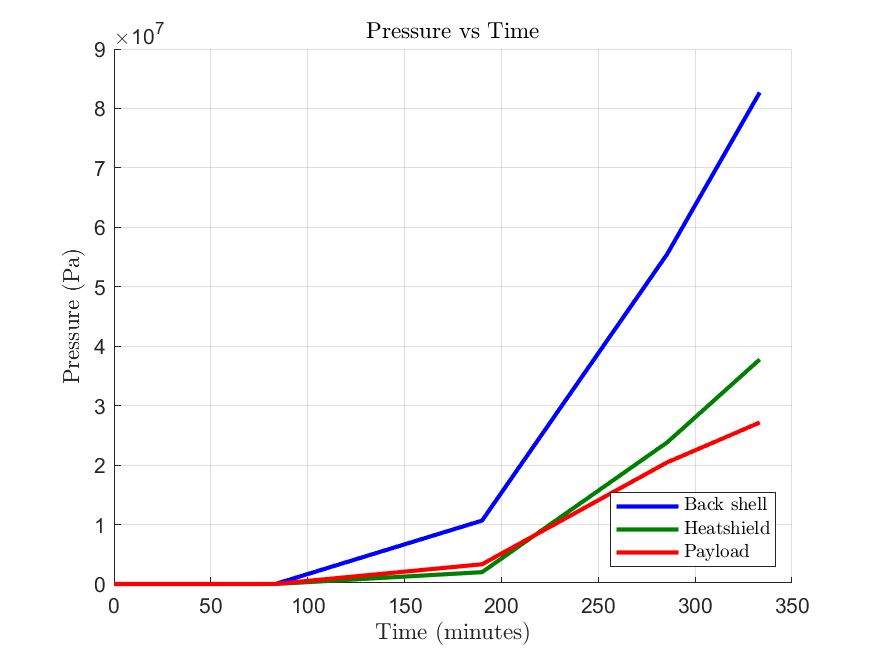
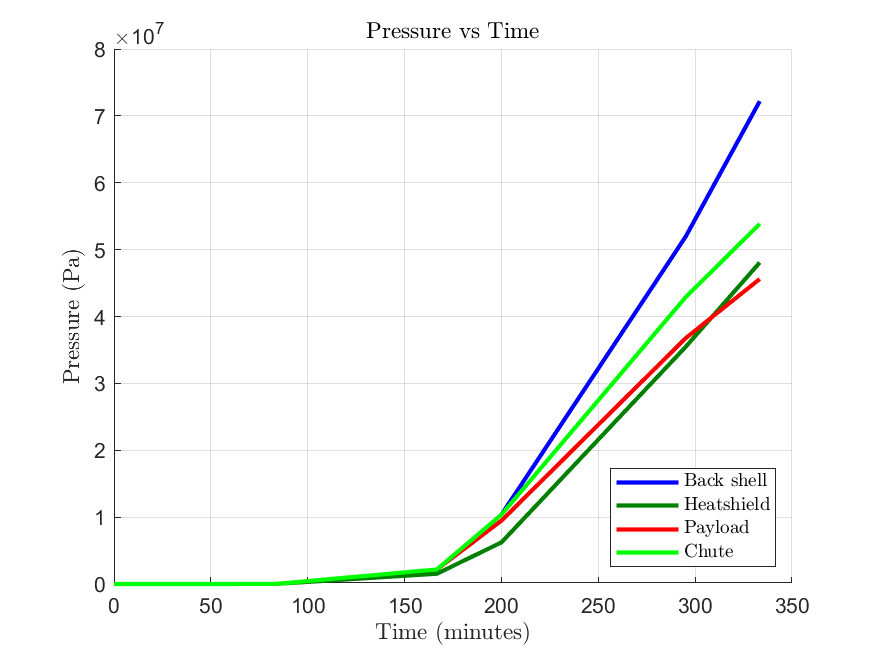
Plots fixed for chute

diff --git a/scripts/Balloon_Probe_EDL.m b/scripts/Balloon_Probe_EDL.m
@@ -114,10 +114,11 @@ hold on
 plot((dataTable.t * 100)/60,pressure_at_altitude(:,2),'LineWidth',2,'Color','blue') 
 plot((dataTable.t * 100)/60,pressure_at_altitude(:,3),'LineWidth',2,'Color',[0, 0.5, 0]) 
 plot((dataTable.t * 100)/60,pressure_at_altitude(:,4),'LineWidth',2,'Color','red') 
+plot((dataTable.t * 100)/60,pressure_at_altitude(:,5),'LineWidth',2,'Color','g') 
 title('Pressure vs Time','Interpreter','latex')
 xlabel('Time (minutes)','Interpreter','latex');
 ylabel('Pressure (Pa)','Interpreter','latex');
-legend({'Back shell', 'Heatshield', 'Payload'}, 'Location', 'southeast','Interpreter','latex');
+legend({'Back shell', 'Heatshield', 'Payload', 'Chute'}, 'Location', 'southeast','Interpreter','latex');
 grid on
 saveas(gcf, 'pressureVsAltitude.png');
 
@@ -127,6 +128,7 @@ hold on
 plot((dataTable.t * 100)/60,dataTable.h_parent/1000,'LineWidth',2,'Color','blue') 
 plot((dataTable.t * 100)/60,dataTable.h_child1/1000,'LineWidth',2,'Color',[0, 0.5, 0]) 
 plot((dataTable.t * 100)/60,dataTable.h_child2/1000,'LineWidth',2,'Color','red') 
+plot((dataTable.t * 100)/60,dataTable.h_child3/1000,'LineWidth',2,'Color','g') 
 title('Altitude vs. Time','Interpreter','latex');
 xlabel('Time (minutes)','Interpreter','latex');
 ylabel('Altitude (km)','Interpreter','latex');
@@ -134,7 +136,7 @@ ylim([60,100])
 grid on
 xline((5 * 100)/60, 'k--', 'Label', 'Separation of Heatshield');
 xline((50 * 100)/60, 'k--', 'Label', 'Separation of Back shell');
-legend({'Back shell', 'Heatshield', 'Payload', 'Sep (Heat shield)', 'Sep (Back shell)'}, 'Location', 'southeast','Interpreter','latex');
+legend({'Back shell', 'Heatshield', 'Payload', 'Sep (Heat shield)', 'Sep (Back shell)', 'Chute'}, 'Location', 'southeast','Interpreter','latex');
 saveas(gcf, 'AltitudeVsTime.png');
 
 % Terminal Velocity at Altitude Plot
@@ -143,10 +145,11 @@ hold on
 plot((dataTable.t * 100)/60,v_terminal(:,2),'LineWidth',2,'Color','blue') 
 plot((dataTable.t * 100)/60,v_terminal(:,3),'LineWidth',2,'Color',[0, 0.5, 0]) 
 plot((dataTable.t * 100)/60,v_terminal(:,4),'LineWidth',2,'Color','red') 
+plot((dataTable.t * 100)/60,v_terminal(:,5),'LineWidth',2,'Color','g') 
 title('Terminal Velocity vs Time','Interpreter','latex')
 xlabel('Time (minutes)','Interpreter','latex');
 ylabel('Terminal velocity (km/s)','Interpreter','latex');
-legend({'Back shell', 'Heatshield', 'Payload'}, 'Location', 'southeast','Interpreter','latex');
+legend({'Back shell', 'Heatshield', 'Payload', 'Chute'}, 'Location', 'southeast','Interpreter','latex');
 grid on
 saveas(gcf, 'velocityVsAltitude.png');
 
@@ -156,10 +159,11 @@ hold on
 plot((dataTable.t * 100)/60,temperature_at_altitude(:,2),'LineWidth',2,'Color','blue') 
 plot((dataTable.t * 100)/60,temperature_at_altitude(:,3),'LineWidth',2,'Color',[0, 0.5, 0]) 
 plot((dataTable.t * 100)/60,temperature_at_altitude(:,4),'LineWidth',2,'Color','red') 
+plot((dataTable.t * 100)/60,temperature_at_altitude(:,5),'LineWidth',2,'Color','g') 
 title('Temperature vs Time','Interpreter','latex')
 xlabel('Time (minutes)','Interpreter','latex');
 ylabel('Temperature (K)','Interpreter','latex');
-legend({'Back shell', 'Heatshield', 'Payload'}, 'Location', 'southeast','Interpreter','latex');
+legend({'Back shell', 'Heatshield', 'Payload', 'Chute'}, 'Location', 'southeast','Interpreter','latex');
 grid on
 saveas(gcf, 'temperatureVsAltitude.png');
 
